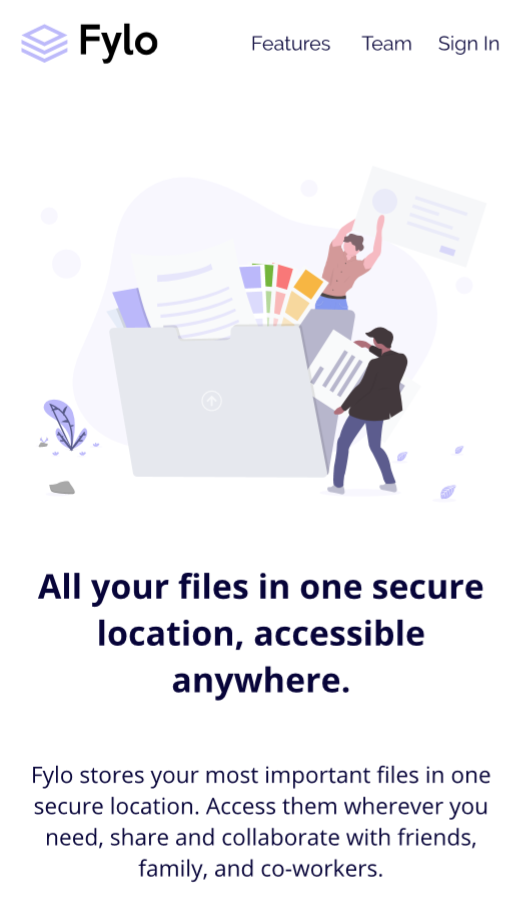
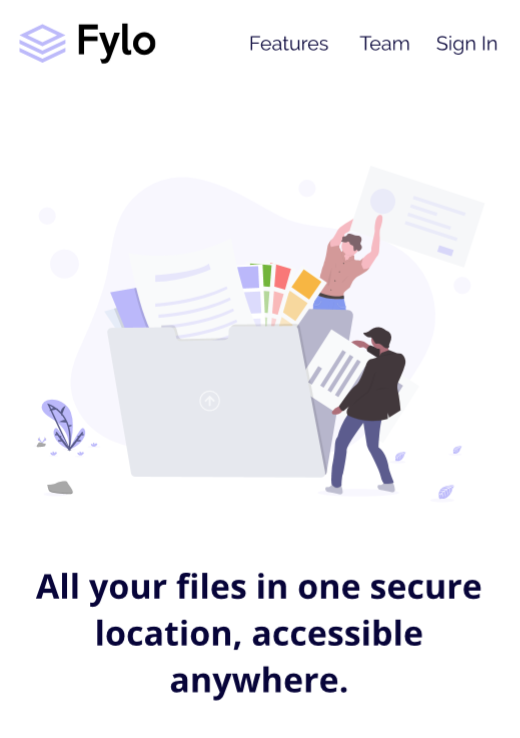
Mobile Layout

diff --git a/index.html b/index.html
@@ -12,8 +12,19 @@
 
 <body>
   <nav>
-    <img class="logo" src="images/SN2.svg" alt="sn-logo">
-    <img class="menu" src="images/menu.svg" alt="#">
+    <svg class="logo" xmlns="http://www.w3.org/2000/svg" xmlns:xlink="http://www.w3.org/1999/xlink" width="1204" height="1325" viewBox="0 0 1204 1325"></svg>
+    <svg class="menu" version="1.1" id="Capa_1" xmlns="http://www.w3.org/2000/svg" xmlns:xlink="http://www.w3.org/1999/xlink" x="0px" y="0px"
+	 viewBox="0 0 384 384" style="enable-background:new 0 0 384 384;" xml:space="preserve">
+      <g>
+        <g>
+          <g>
+            <rect x="0" y="277.333" width="384" height="42.667"/>
+            <rect x="0" y="170.667" width="384" height="42.667"/>
+            <rect x="0" y="64" width="384" height="42.667"/>
+          </g>
+        </g>
+      </g>
+    </svg>
   </nav>
 
   <main>
@@ -42,19 +53,46 @@
 
   <footer>
     <div class="resume container">
-      <img class="file" src="images/file.svg" alt="resume">
+      <svg class="file" xmlns="http://www.w3.org/2000/svg" height="511pt" version="1.1" viewBox="-53 1 511 511.99906" width="511pt">
+        <g id="surface1">
+        <path d="M 276.410156 3.957031 C 274.0625 1.484375 270.84375 0 267.507812 0 L 67.777344 0 C 30.921875 0 0.5 30.300781 0.5 67.152344 L 0.5 444.84375 C 0.5 481.699219 30.921875 512 67.777344 512 L 338.863281 512 C 375.71875 512 406.140625 481.699219 406.140625 444.84375 L 406.140625 144.941406 C 406.140625 141.726562 404.65625 138.636719 402.554688 136.285156 Z M 279.996094 43.65625 L 364.464844 132.328125 L 309.554688 132.328125 C 293.230469 132.328125 279.996094 119.21875 279.996094 102.894531 Z M 338.863281 487.265625 L 67.777344 487.265625 C 44.652344 487.265625 25.234375 468.097656 25.234375 444.84375 L 25.234375 67.152344 C 25.234375 44.027344 44.527344 24.734375 67.777344 24.734375 L 255.261719 24.734375 L 255.261719 102.894531 C 255.261719 132.945312 279.503906 157.0625 309.554688 157.0625 L 381.40625 157.0625 L 381.40625 444.84375 C 381.40625 468.097656 362.113281 487.265625 338.863281 487.265625 Z M 338.863281 487.265625 " style=" stroke:none;fill-rule:nonzero;fill:#efecec;fill-opacity:1;" />
+        <path d="M 305.101562 401.933594 L 101.539062 401.933594 C 94.738281 401.933594 89.171875 407.496094 89.171875 414.300781 C 89.171875 421.101562 94.738281 426.667969 101.539062 426.667969 L 305.226562 426.667969 C 312.027344 426.667969 317.59375 421.101562 317.59375 414.300781 C 317.59375 407.496094 312.027344 401.933594 305.101562 401.933594 Z M 305.101562 401.933594 " style=" stroke:none;fill-rule:nonzero;fill:#efecec;fill-opacity:1;" />
+        <path d="M 194.292969 357.535156 C 196.644531 360.007812 199.859375 361.492188 203.320312 361.492188 C 206.785156 361.492188 210 360.007812 212.347656 357.535156 L 284.820312 279.746094 C 289.519531 274.796875 289.148438 266.882812 284.203125 262.308594 C 279.253906 257.609375 271.339844 257.976562 266.765625 262.925781 L 215.6875 317.710938 L 215.6875 182.664062 C 215.6875 175.859375 210.121094 170.296875 203.320312 170.296875 C 196.519531 170.296875 190.953125 175.859375 190.953125 182.664062 L 190.953125 317.710938 L 140 262.925781 C 135.300781 257.980469 127.507812 257.609375 122.5625 262.308594 C 117.617188 267.007812 117.246094 274.800781 121.945312 279.746094 Z M 194.292969 357.535156 " style=" stroke:none;fill-rule:nonzero;fill:#efecec;fill-opacity:1;" />
+        </g>
+      </svg>
       <p>resume</p>
     </div>
 
     <div class="skills container">
-      <img class="list" src="images/list.svg" alt="skills">
+      <svg class="list" version="1.1" id="Capa_1" xmlns="http://www.w3.org/2000/svg" xmlns:xlink="http://www.w3.org/1999/xlink" x="0px" y="0px"
+        viewBox="0 0 394.667 394.667" style="enable-background:new 0 0 394.667 394.667;" xml:space="preserve">
+      <g>
+        <g>
+          <g>
+            <path d="M32,37.333c-17.707,0-32,14.293-32,32s14.293,32,32,32s32-14.293,32-32S49.707,37.333,32,37.333z"/>
+            <path d="M32,165.333c-17.707,0-32,14.293-32,32s14.293,32,32,32s32-14.293,32-32S49.707,165.333,32,165.333z"/>
+            <path d="M32,293.333c-17.813,0-32,14.4-32,32c0,17.6,14.4,32,32,32c17.6,0,32-14.4,32-32C64,307.733,49.813,293.333,32,293.333z"
+              />
+            <rect x="96" y="304" width="298.667" height="42.667"/>
+            <rect x="96" y="48" width="298.667" height="42.667"/>
+            <rect x="96" y="176" width="298.667" height="42.667"/>
+          </g>
+        </g>
+      </g>
+      </svg>
       <p>skills</p>      
     </div>
 
     <div class="hire container">
-      <img class="call" src="images/call.svg" alt="hire-me">
+      <svg class="call" xmlns="http://www.w3.org/2000/svg" xmlns:xlink="http://www.w3.org/1999/xlink" version="1.1" id="Capa_1" x="0px" y="0px" viewBox="0 0 384 384" style="enable-background:new 0 0 384 384;" xml:space="preserve" width="512px" height="512px"><g><g>
+        <g>
+          <path d="M353.188,252.052c-23.51,0-46.594-3.677-68.469-10.906c-10.719-3.656-23.896-0.302-30.438,6.417l-43.177,32.594    c-50.073-26.729-80.917-57.563-107.281-107.26l31.635-42.052c8.219-8.208,11.167-20.198,7.635-31.448    c-7.26-21.99-10.948-45.063-10.948-68.583C132.146,13.823,118.323,0,101.333,0H30.813C13.823,0,0,13.823,0,30.813    C0,225.563,158.438,384,353.188,384c16.99,0,30.813-13.823,30.813-30.813v-70.323C384,265.875,370.177,252.052,353.188,252.052z" data-original="#000000" class="active-path" data-old_color="#000000" fill="#EFECEC"/>
+        </g>
+      </g></g> 
+      </svg>
       <p>hire me</p>
     </div>
   </footer>
+  <script src="app.js"></script>
 </body>
 </html>

diff --git a/styles/styles.css b/styles/styles.css
@@ -5,7 +5,7 @@
   padding: 0;
   font-size: 10px;
   font-family: 'Roboto Mono';
-  color: #EFECEC;
+  color: #efecec;
 }
 
 body {
@@ -18,7 +18,7 @@ body img {
 }
 
 nav {
-  height: 10%;
+  height: 10vh;
   width: 100%;
   display: -webkit-box;
   display: -ms-flexbox;
@@ -30,12 +30,19 @@ nav {
   border: 1px solid red;
 }
 
-nav .menu {
+nav .logo {
   width: 2rem;
+  height: 2rem;
+  fill: #efecec;
+}
+
+nav .menu {
+  width: 3rem;
+  fill: #efecec;
 }
 
 main {
-  height: 80%;
+  height: 80vh;
   display: -webkit-box;
   display: -ms-flexbox;
   display: flex;
@@ -43,7 +50,7 @@ main {
   -webkit-box-direction: normal;
       -ms-flex-direction: column;
           flex-direction: column;
-  margin: 3.5rem 5rem 4.9rem;
+  padding: 3rem 5rem 4.9rem;
 }
 
 main .header {
@@ -51,10 +58,10 @@ main .header {
 }
 
 main .header h1 {
-  font-size: 4rem;
+  font-size: 3.8rem;
   font-weight: 700;
   width: 26.5rem;
-  margin-bottom: 2.4rem;
+  margin-bottom: 1.5rem;
   text-shadow: 0px 4px 4px rgba(0, 0, 0, 0.25);
 }
 
@@ -73,7 +80,7 @@ main .projects-box .work {
   -webkit-box-align: center;
       -ms-flex-align: center;
           align-items: center;
-  margin-bottom: 2rem;
+  margin-bottom: 2.5rem;
 }
 
 main .projects-box .work h3 {
@@ -89,7 +96,7 @@ main .projects-box .work a {
 main .projects-box .work a::before {
   display: inline-block;
   content: "";
-  border-top: 0.1rem solid #EFECEC;
+  border-top: 0.1rem solid #efecec;
   width: 2rem;
   margin: 0 .5rem;
   -webkit-transform: translateY(-0.5rem);
@@ -102,31 +109,54 @@ main .projects-box .tabs-box {
   display: flex;
 }
 
-main .projects-box .tabs-box .tabs img {
+main .projects-box .tabs-box .tabs {
   width: 21.5rem;
   height: 31rem;
+}
+
+main .projects-box .tabs-box .tabs img {
+  height: 100%;
   border-radius: 2rem;
   -webkit-box-shadow: 6px 6px 7px rgba(0, 0, 0, 0.2), -6px -6px 7px rgba(0, 0, 0, 0.2);
           box-shadow: 6px 6px 7px rgba(0, 0, 0, 0.2), -6px -6px 7px rgba(0, 0, 0, 0.2);
 }
 
 footer {
-  height: 10%;
+  height: 10vh;
+  padding: 0 20%;
   display: -webkit-box;
   display: -ms-flexbox;
   display: flex;
+  -webkit-box-align: center;
+      -ms-flex-align: center;
+          align-items: center;
+  -webkit-box-pack: justify;
+      -ms-flex-pack: justify;
+          justify-content: space-between;
   background-color: #363434;
 }
 
-footer .file {
-  width: 2.5rem;
+footer .container {
+  text-align: center;
 }
 
-footer .list {
-  width: 2.5rem;
+footer .container svg {
+  margin-bottom: .5rem;
 }
 
-footer .call {
+footer .container .file {
+  width: 2.5rem;
+  height: 2.5rem;
+}
+
+footer .container .list {
+  width: 2.5rem;
+  fill: #efecec;
+}
+
+footer .container .call {
   width: 2rem;
+  height: 2.5rem;
+  fill: #efecec;
 }
 /*# sourceMappingURL=styles.css.map */

diff --git a/styles/styles.scss b/styles/styles.scss
@@ -1,6 +1,6 @@
 $main-color: #5C5757;
 $secondary-color: #363434;
-$font-color-main: #EFECEC;
+$font-color-main: #efecec;
 
 * {
   box-sizing: border-box;
@@ -20,32 +20,35 @@ body {
 }
 
 nav {
-  height: 10%;
+  height: 10vh;
   width: 100%;
   display: flex;
   justify-content: space-between;
   padding: 0 10.5%;
   border: 1px solid red;
-  // .logo {
-  //   width: 2rem;
-  // }
-  .menu {
+  .logo {
     width: 2rem;
+    height: 2rem;
+    fill: $font-color-main;  
+  }
+  .menu {
+    width: 3rem;
+    fill: $font-color-main;
   }
 }
 
 main {
-  height: 80%;
+  height: 80vh;
   display: flex;
   flex-direction: column;
-  margin: 3.5rem 5rem 4.9rem;
+  padding: 3rem 5rem 4.9rem;
   .header {
     padding: 0 0 4.2rem;
     h1 {
-      font-size: 4rem;
+      font-size: 3.8rem;
       font-weight: 700;
       width: 26.5rem;
-      margin-bottom: 2.4rem;
+      margin-bottom: 1.5rem;
       text-shadow: 0px 4px 4px rgba(0, 0, 0, 0.25);
     }
     h2 {
@@ -58,7 +61,7 @@ main {
       display: flex;
       justify-content: space-between;
       align-items: center;
-      margin-bottom: 2rem;
+      margin-bottom: 2.5rem;
       h3 {
         font-size: 1.8rem;
         font-weight: 500;
@@ -79,9 +82,10 @@ main {
     .tabs-box {
       display: flex;
       .tabs {
+        width: 21.5rem;
+        height: 31rem;
         img {
-          width: 21.5rem;
-          height: 31rem;
+          height: 100%;
           border-radius: 2rem;
           box-shadow: 6px 6px 7px rgba(0, 0, 0, 0.2), -6px -6px 7px rgba(0, 0, 0, 0.2);
         }
@@ -91,19 +95,31 @@ main {
 }
 
 footer {
-  height: 10%;
+  height: 10vh;
+  padding: 0 20%;
   display: flex;
+  align-items: center;
+  justify-content: space-between;
   background-color: $secondary-color;
-  .file {
-    width: 2.5rem;
+  .container{
+    text-align: center;
+    svg {
+      margin-bottom: .5rem;
+    }
+    .file {
+      width: 2.5rem;
+      height: 2.5rem;
+    }
+    .list {
+      width: 2.5rem;
+      fill: $font-color-main;
+    }
+    .call {
+      width: 2rem;
+      height: 2.5rem;
+      fill: $font-color-main;
+    }
   }
-  .list {
-    width: 2.5rem;
-  }
-  .call {
-    width: 2rem;
-  }
-
 }
 
 
